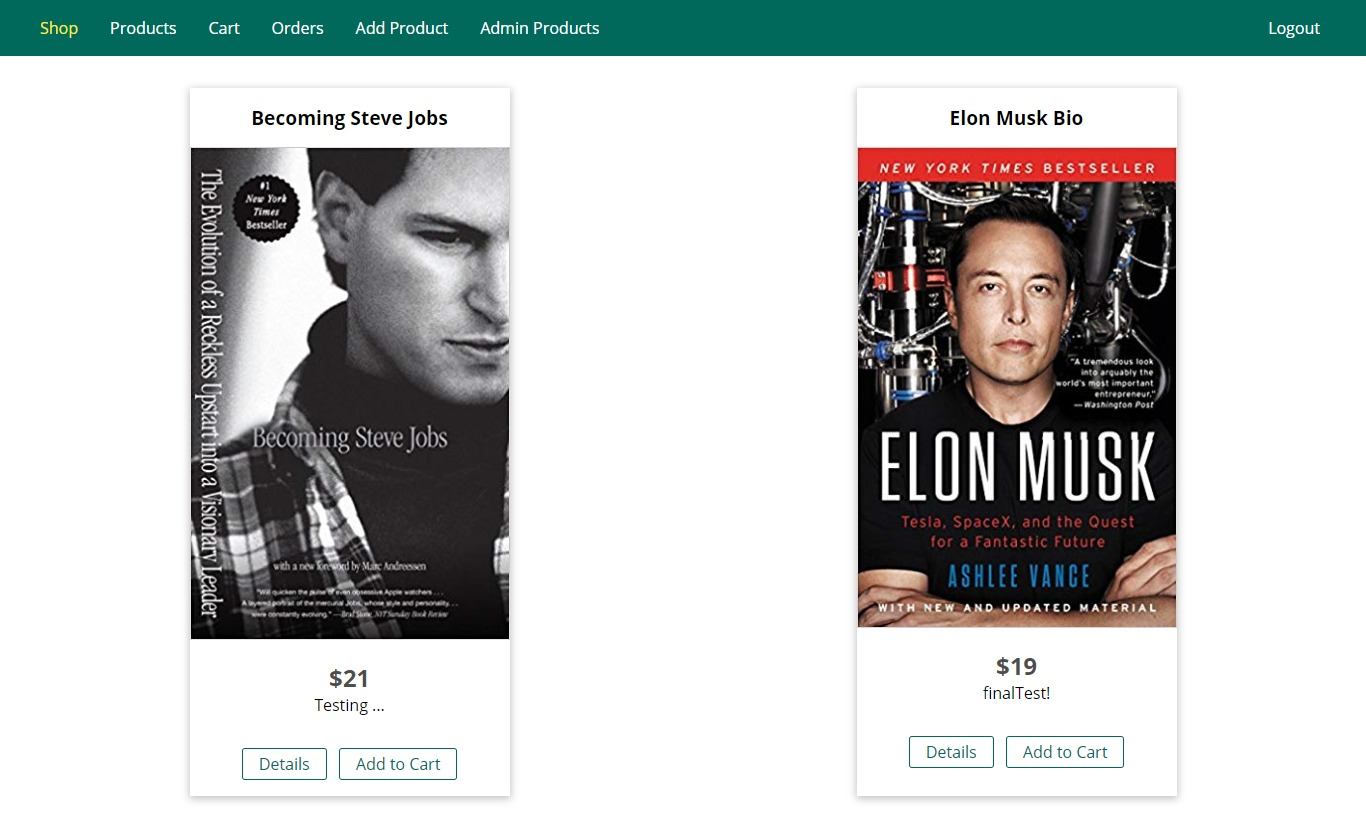
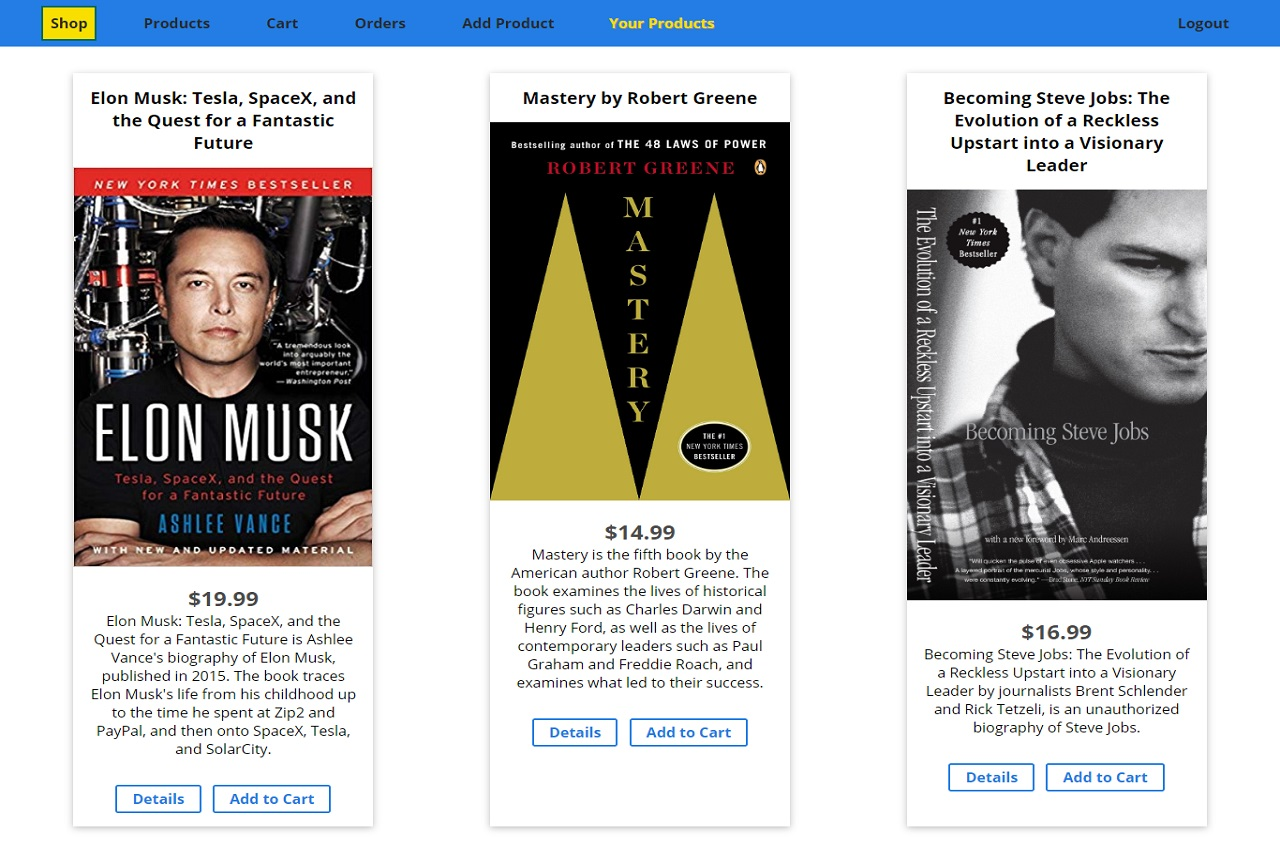
Add pagination

diff --git a/controllers/admin.js b/controllers/admin.js
@@ -4,6 +4,23 @@ const { validationResult } = require("express-validator/check");
 
 const Product = require("../models/product");
 
+exports.getProducts = (req, res, next) => {
+  try {
+    const { data, pagination, count } = res.advancedResults;
+    res.render("admin/products", {
+      prods: data,
+      pageTitle: "Admin Products",
+      path: "/admin/products",
+      pagination,
+      count
+    });
+  } catch (err) {
+    const error = new Error(err);
+    error.httpStatusCode = 500;
+    return next(error);
+  }
+};
+
 exports.getAddProduct = (req, res, next) => {
   res.render("admin/edit-product", {
     pageTitle: "Add Product",
@@ -45,7 +62,6 @@ exports.postAddProduct = (req, res, next) => {
       hasError: true,
       product: {
         title,
-        imageUrl,
         price,
         description
       },
@@ -54,11 +70,15 @@ exports.postAddProduct = (req, res, next) => {
     });
   }
 
+  // We add '/' so it would create an absolute path and thanks to that the same image
+  // will be accessible on both routes (index && admin)
+  const imageUrl = `/${image.path}`;
+
   const product = new Product({
     title,
     price,
     description,
-    imageUrl: image.path,
+    imageUrl,
     userId: req.user
   });
   product
@@ -88,7 +108,7 @@ exports.getEditProduct = (req, res, next) => {
         pageTitle: "Edit Product",
         path: "/admin/edit-product",
         editing: editMode,
-        product: product,
+        product,
         hasError: false,
         errorMessage: null,
         validationErrors: []
@@ -102,7 +122,7 @@ exports.getEditProduct = (req, res, next) => {
 };
 
 exports.postEditProduct = (req, res, next) => {
-  const { productId, title, price, description } = req.body.productId;
+  const { productId, title, price, description } = req.body;
   const image = req.file;
 
   const errors = validationResult(req);
@@ -137,24 +157,7 @@ exports.postEditProduct = (req, res, next) => {
         product.imageUrl = image.path;
       }
       return product.save().then(result => {
-        console.log("UPDATED PRODUCT!");
         res.redirect("/admin/products");
-      });
-    })
-    .catch(err => {
-      const error = new Error(err);
-      error.httpStatusCode = 500;
-      return next(error);
-    });
-};
-
-exports.getProducts = (req, res, next) => {
-  Product.find({ userId: req.user._id })
-    .then(products => {
-      res.render("admin/products", {
-        prods: products,
-        pageTitle: "Admin Products",
-        path: "/admin/products"
       });
     })
     .catch(err => {

diff --git a/controllers/shop.js b/controllers/shop.js
@@ -1,20 +1,21 @@
 const Product = require("../models/product");
 const Order = require("../models/order");
 
-exports.getProducts = (req, res, next) => {
-  Product.find()
-    .then(products => {
-      res.render("shop/product-list", {
-        prods: products,
-        pageTitle: "All Products",
-        path: "/products"
-      });
-    })
-    .catch(err => {
-      const error = new Error(err);
-      error.httpStatusCode = 500;
-      return next(error);
+exports.getProducts = async (req, res, next) => {
+  try {
+    const { data, pagination, count } = res.advancedResults;
+    res.render("shop/product-list", {
+      prods: data,
+      pageTitle: "All Products",
+      path: "/products",
+      pagination,
+      count
     });
+  } catch (err) {
+    const error = new Error(err);
+    error.httpStatusCode = 500;
+    return next(err);
+  }
 };
 
 exports.getProduct = (req, res, next) => {
@@ -34,20 +35,21 @@ exports.getProduct = (req, res, next) => {
     });
 };
 
-exports.getIndex = (req, res, next) => {
-  Product.find()
-    .then(products => {
-      res.render("shop/index", {
-        prods: products,
-        pageTitle: "Shop",
-        path: "/"
-      });
-    })
-    .catch(err => {
-      const error = new Error(err);
-      error.httpStatusCode = 500;
-      return next(error);
+exports.getIndex = async (req, res, next) => {
+  try {
+    const { data, pagination, count } = res.advancedResults;
+    res.render("shop/index", {
+      prods: data,
+      pageTitle: "Shop",
+      path: "/",
+      pagination,
+      count
     });
+  } catch (err) {
+    const error = new Error(err);
+    error.httpStatusCode = 500;
+    return next(error);
+  }
 };
 
 exports.getCart = (req, res, next) => {

diff --git a/routes/admin.js b/routes/admin.js
@@ -3,24 +3,29 @@ const { body } = require("express-validator/check");
 
 const adminController = require("../controllers/admin");
 const isAuth = require("../middleware/is-auth");
+const Product = require("../models/product");
+const advancedResults = require("../middleware/advancedResults");
 
 const router = express.Router();
 
-// /admin/add-product => GET
 router.get("/add-product", isAuth, adminController.getAddProduct);
 
-router.get("/products", isAuth, adminController.getProducts);
+router.get(
+  "/products",
+  isAuth,
+  advancedResults(Product, true),
+  adminController.getProducts
+);
 
-// /admin/add-product => POST
 router.post(
   "/add-product",
   [
-    body("title")
+    body("title", "The title must be at least 3 characters long.")
       .isString()
       .isLength({ min: 3 })
       .trim(),
-    body("price").isFloat(),
-    body("description")
+    body("price", "The price must be a number.").isFloat(),
+    body("description", "The description must be between 5 and 400 characters.")
       .isLength({ min: 5, max: 400 })
       .trim()
   ],
@@ -33,12 +38,12 @@ router.get("/edit-product/:productId", isAuth, adminController.getEditProduct);
 router.post(
   "/edit-product",
   [
-    body("title")
+    body("title", "The title must be at least 3 characters long.")
       .isString()
       .isLength({ min: 3 })
       .trim(),
-    body("price").isFloat(),
-    body("description")
+    body("price", "The price must be a number.").isFloat(),
+    body("description", "The description must be between 5 and 400 characters.")
       .isLength({ min: 5, max: 400 })
       .trim()
   ],

diff --git a/app.js b/app.js
@@ -58,13 +58,11 @@ const authRoutes = require("./routes/auth");
 app.use(bodyParser.urlencoded({ extended: false }));
 app.use(express.static(path.join(__dirname, "public")));
 app.use(uploadIt.single("image"));
-
 app.use("/uploads", express.static(path.join(__dirname, "uploads")));
-app.use("/admin/uploads", express.static(path.join(__dirname, "uploads")));
 
 app.use(
   session({
-    secret: "secretSession",
+    secret: process.env.SESSION_SECRET,
     resave: false,
     saveUninitialized: false,
     store
@@ -72,6 +70,11 @@ app.use(
 );
 app.use(csrfProtection);
 app.use(flash());
+
+app.use((req, res, next) => {
+  res.locals.isAuthenticated = req.session.isLoggedIn;
+  next();
+});
 
 app.use((req, res, next) => {
   if (!req.session.user) {
@@ -90,8 +93,8 @@ app.use((req, res, next) => {
     });
 });
 
+app.use(csrfProtection);
 app.use((req, res, next) => {
-  res.locals.isAuthenticated = req.session.isLoggedIn;
   res.locals.csrfToken = req.csrfToken();
   next();
 });
@@ -105,10 +108,11 @@ app.get("/500", errorController.get500);
 app.use(errorController.get404);
 
 app.use((error, req, res, next) => {
+  let isLoggedIn = !req.session ? false : req.session.isLoggedIn;
   res.status(500).render("500", {
     pageTitle: "Error!",
     path: "/500",
-    isAuthenticated: req.session.isLoggedIn
+    isAuthenticated: isLoggedIn
   });
 });
 

diff --git a/public/css/main.css b/public/css/main.css
@@ -93,7 +93,6 @@ form {
 .main-header__item button:hover,
 .main-header__item button:active {
   background: #f8df00;
-  border-color: #292929;
   color: #292929;
   border: 2px solid #00695c;
 }
@@ -146,9 +145,11 @@ form {
 .mobile-nav__item a.active,
 .mobile-nav__item button:hover,
 .mobile-nav__item button:active {
-  background: #00695c;
-  color: white;
+  background: #237de4;
+  color: #f8df00;
   border-radius: 3px;
+  border: 2px solid #00695c;
+  text-shadow: 1px 1px 2px rgba(0, 0, 0, 0.26);
 }
 
 #side-menu-toggle {
@@ -168,7 +169,7 @@ form {
 #side-menu-toggle:active,
 #side-menu-toggle:hover {
   color: #ffeb3b;
-  border-color: #ffeb3b;
+  border: 2px solid #ffeb3b;
 }
 
 .backdrop {
@@ -282,6 +283,29 @@ form {
   .user-message {
     width: 30rem;
   }
+}
+
+.pagination {
+  margin-top: 2rem;
+  text-align: center;
+}
+
+.pagination a {
+  text-decoration: none;
+  color: #237de4;
+  padding: 0.5rem;
+  border: 1px solid #237de4;
+  margin: 0 1rem;
+  font-weight: bold;
+  border: 2px solid transparent;
+}
+
+.pagination a:hover,
+.pagination a:active,
+.pagination a.active {
+  background: #237de4;
+  color: #f8df00;
+  border: 2px inset #f3de1eaf;
 }
 
 @media (max-width: 964px) {

diff --git a/middleware/advancedResults.js b/middleware/advancedResults.js
@@ -1,0 +1,29 @@
+const advancedResults = (model, query) => async (req, res, next) => {
+  const page = +req.query.page || 1;
+  const limit = +req.query.limit || 2;
+  let criteria = query ? { userId: req.user._id } : undefined;
+  const total = await model.find(criteria).countDocuments();
+  const result = await model
+    .find(criteria)
+    .skip((page - 1) * limit)
+    .limit(limit);
+
+  const pagination = {
+    currentPage: page,
+    hasNextPage: limit * page < total,
+    hasPreviousPage: page > 1,
+    nextPage: page + 1,
+    previousPage: page - 1,
+    lastPage: Math.ceil(total / limit)
+  };
+
+  res.advancedResults = {
+    success: true,
+    count: result.length,
+    pagination,
+    data: result
+  };
+
+  next();
+};
+module.exports = advancedResults;

diff --git a/routes/shop.js b/routes/shop.js
@@ -2,12 +2,14 @@ const express = require("express");
 
 const shopController = require("../controllers/shop");
 const isAuth = require("../middleware/is-auth");
+const Product = require("../models/product");
+const advancedResults = require("../middleware/advancedResults");
 
 const router = express.Router();
 
-router.get("/", shopController.getIndex);
+router.get("/", advancedResults(Product), shopController.getIndex);
 
-router.get("/products", shopController.getProducts);
+router.get("/products", advancedResults(Product), shopController.getProducts);
 
 router.get("/products/:productId", shopController.getProduct);
 
